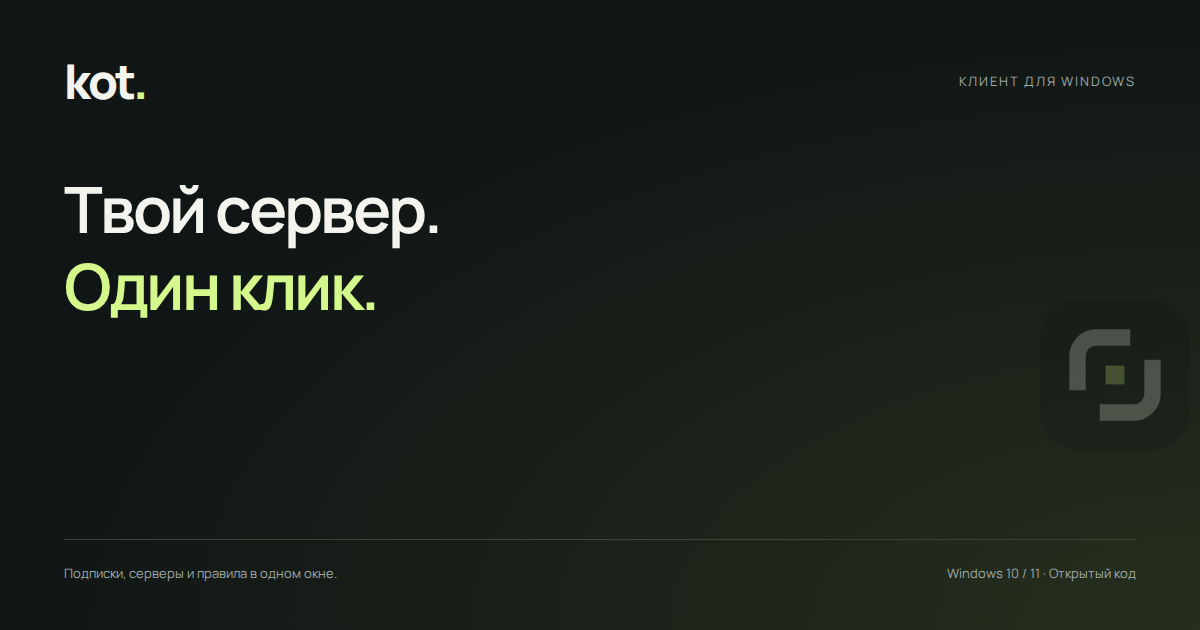
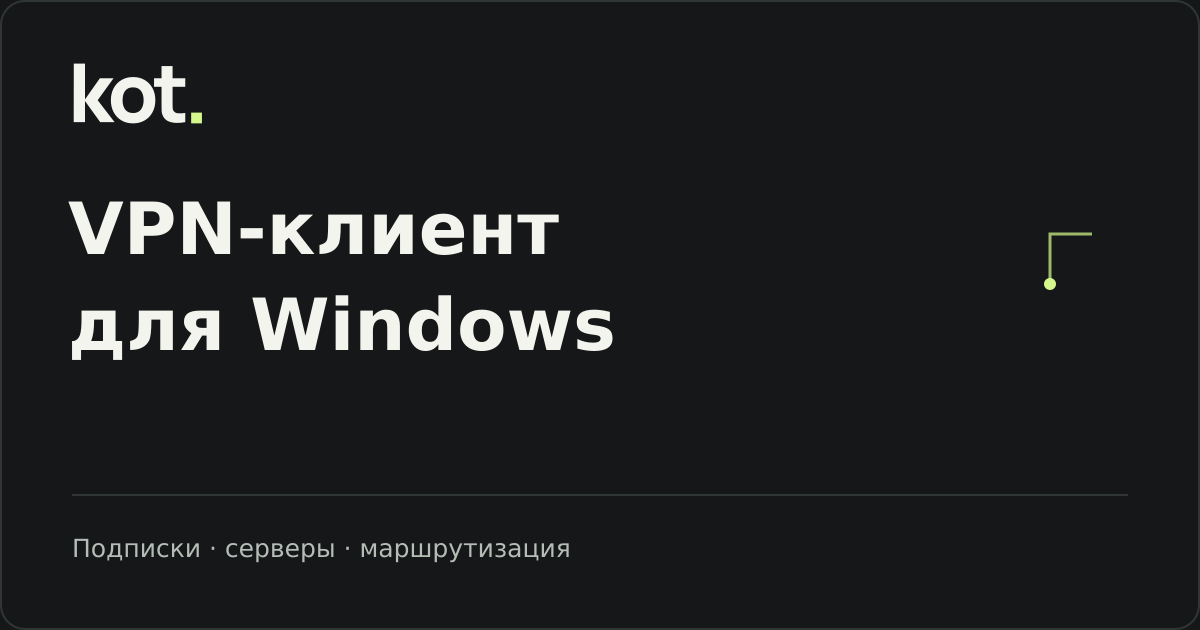
Edit public copy for clarity

diff --git a/site/index.html b/site/index.html
@@ -1,17 +1,17 @@
 <!doctype html>
 <html lang="ru"><head><meta charset="utf-8"><meta name="viewport" content="width=device-width, initial-scale=1"><meta name="theme-color" content="#101213"><meta name="color-scheme" content="dark">
-  <meta name="description" content="Клиент для Windows. Твои подписки, серверы и правила маршрутизации в одном окне.">
-  <meta property="og:title" content="kot. / Твой сервер. Один клик.">
-  <meta property="og:description" content="Клиент для Windows. Твои подписки, серверы и правила маршрутизации в одном окне.">
+  <meta name="description" content="Клиент для Windows: подписки, серверы и правила маршрутизации в одном окне.">
+  <meta property="og:title" content="kot. — VPN-клиент для Windows">
+  <meta property="og:description" content="Клиент для Windows: подписки, серверы и правила маршрутизации в одном окне.">
   <meta property="og:type" content="website">
   <meta property="og:locale" content="ru_RU">
   <meta property="og:url" content="https://prodkot.github.io/kot/">
   <meta property="og:image" content="https://prodkot.github.io/kot/assets/social.png">
   <meta property="og:image:width" content="1200">
   <meta property="og:image:height" content="630">
-  <meta property="og:image:alt" content="kot. Твой сервер. Один клик. Клиент для Windows.">
+  <meta property="og:image:alt" content="kot. — VPN-клиент для Windows: подписки, серверы и маршрутизация.">
   <meta name="twitter:card" content="summary_large_image">
-  <title>kot. / Твой сервер. Один клик.</title>
+  <title>kot. — VPN-клиент для Windows</title>
   <link rel="canonical" href="https://prodkot.github.io/kot/">
 
 <link rel="icon" href="assets/kot-dark.svg" type="image/svg+xml"><link rel="preload" href="assets/fonts/Manrope.ttf" as="font" type="font/ttf" crossorigin>
@@ -33,14 +33,14 @@
     <div class="vw-picture-wrap" data-swipe-gallery><button type="button" class="screen-button vw-picture" data-zoom aria-label="Увеличить выбранный экран"><img src="assets/screens/home.png" width="1440" height="960" alt="Подключение kot. 0.8.0: кнопка подключения, сервер и выбор режима" data-explorer-image fetchpriority="high"><span class="zoom-hint" aria-hidden="true">+</span></button></div>
     <div class="vw-notes"><p class="vw-counter"><span data-explorer-number>01</span><span>/ 05</span></p><div class="vw-note-copy" data-explorer-text><h2 data-explorer-title>Подключение</h2><p data-explorer-copy>Выбираешь сервер и подключаешься<span class="text-dot">.</span> Здесь же переключаются TUN и системный прокси<span class="text-dot">.</span></p><ul data-explorer-facts><li>Два режима подключения</li><li>Скорость и время сеанса</li></ul></div><button type="button" class="vw-try" data-open-demo data-demo-page="home" data-explorer-demo>Открыть демо <span aria-hidden="true">↗</span></button></div>
   </div>
-<div class="vw-controls"><span class="sr-only" aria-live="polite" data-explorer-status>Экран 1 из 5</span><div class="vw-arrows" role="group" aria-label="Переключение экранов"><button type="button" data-explore-prev aria-label="Предыдущий экран"><svg viewBox="0 0 24 24" aria-hidden="true"><path d="m14 6-6 6 6 6"/></svg></button><button type="button" data-explore-next aria-label="Следующий экран"><svg viewBox="0 0 24 24" aria-hidden="true"><path d="m10 6 6 6-6 6"/></svg></button></div></div>
+<div class="vw-controls"><p class="vw-viewer-note">Снимки интерфейса 0.8.0</p><span class="sr-only" aria-live="polite" data-explorer-status>Экран 1 из 5</span><div class="vw-arrows" role="group" aria-label="Переключение экранов"><button type="button" data-explore-prev aria-label="Предыдущий экран"><svg viewBox="0 0 24 24" aria-hidden="true"><path d="m14 6-6 6 6 6"/></svg></button><button type="button" data-explore-next aria-label="Следующий экран"><svg viewBox="0 0 24 24" aria-hidden="true"><path d="m10 6 6 6-6 6"/></svg></button></div></div>
 </section>
 <span id="start" aria-hidden="true"></span>
-<section class="vw-subscription vw-wrap reveal" aria-labelledby="vw-subscription-title"><div class="vw-subscription-main"><h2 id="vw-subscription-title">Добавь свою<br>подписку<span class="text-dot">.</span></h2><div><p>В «Серверах» можно вставить ссылку на подписку или добавить сервер вручную<span class="text-dot">.</span> Там же поиск, задержка и избранное<span class="text-dot">.</span></p><button type="button" data-open-demo data-demo-page="servers">Открыть серверы в демо <span aria-hidden="true">↗</span></button></div></div><div class="vw-protocols"><span>Поддерживаются</span><p>VLESS <i><span class="text-dot text-dot-middle">·</span></i> VMess <i><span class="text-dot text-dot-middle">·</span></i> Trojan <i><span class="text-dot text-dot-middle">·</span></i> Shadowsocks <i><span class="text-dot text-dot-middle">·</span></i> Hysteria2</p><a href="https://github.com/prodkot/kot/blob/main/docs/GUIDE.md">Руководство ↗</a></div></section>
+<section class="vw-subscription vw-wrap reveal" aria-labelledby="vw-subscription-title"><div class="vw-subscription-main"><h2 id="vw-subscription-title">Подписки<br>и серверы<span class="text-dot">.</span></h2><div><p>В «Серверах» можно вставить ссылку на подписку или отдельный сервер<span class="text-dot">.</span> Там же поиск, задержка и избранное<span class="text-dot">.</span></p><button type="button" data-open-demo data-demo-page="servers">Открыть серверы в демо <span aria-hidden="true">↗</span></button></div></div><div class="vw-protocols"><span>Поддерживаются</span><p>VLESS <i><span class="text-dot text-dot-middle">·</span></i> VMess <i><span class="text-dot text-dot-middle">·</span></i> Trojan <i><span class="text-dot text-dot-middle">·</span></i> Shadowsocks <i><span class="text-dot text-dot-middle">·</span></i> Hysteria2</p><a href="https://github.com/prodkot/kot/blob/main/docs/GUIDE.md">Руководство ↗</a></div></section>
 <span id="download" aria-hidden="true"></span>
 <section class="vw-install vw-wrap reveal" id="install" aria-labelledby="vw-install-title"><div class="vw-install-intro"><h2 id="vw-install-title" class="install-title">
   <span class="install-title-default">Установить<br>kot<span class="install-dot text-dot">.</span></span>
-  <span class="install-title-secret" aria-hidden="true"><span class="install-meow">Мяу,</span><span class="install-promise">и интернет<br>у тебя в руках<span class="install-dot text-dot">.</span></span></span>
+  <span class="install-title-secret" aria-hidden="true"><span class="install-meow">Мяу<span class="install-dot text-dot">.</span></span></span>
 </h2><span class="sr-only" role="status" data-cat-status></span><a class="vw-release kot-download" data-release-download href="https://github.com/prodkot/kot/releases/latest"><span class="download-label">Скачать для Windows</span><span class="download-art" aria-hidden="true"><svg class="download-arrow" viewBox="0 0 24 24"><path d="M12 3v12m-5-5 5 5 5-5M4 16v4h16v-4"/></svg><svg class="download-paw" viewBox="0 0 24 24"><path d="M7.2 12.7C5.7 14.6 4.4 16.3 5.4 18.2c.8 1.4 2.3 1.5 3.9.9a7.3 7.3 0 0 1 5.4 0c1.6.6 3.1.5 3.9-.9 1-1.9-.3-3.6-1.8-5.5-2.3-2.8-7.3-2.8-9.6 0Z"/><ellipse cx="4.6" cy="9" rx="2" ry="2.6" transform="rotate(-24 4.6 9)"/><ellipse cx="9.2" cy="5.7" rx="2" ry="2.7" transform="rotate(-9 9.2 5.7)"/><ellipse cx="14.8" cy="5.7" rx="2" ry="2.7" transform="rotate(9 14.8 5.7)"/><ellipse cx="19.4" cy="9" rx="2" ry="2.6" transform="rotate(24 19.4 9)"/></svg></span></a></div><div class="vw-kot-art">
   <svg class="kot-portrait kot-loaf" viewBox="0 0 600 360" fill="none" aria-hidden="true" focusable="false">
     <path class="kot-thread" d="M154 284C128 326 132 318 102 310"/>
@@ -59,7 +59,7 @@
   <span class="sr-only" id="kot-play-hint">Нажми на кота, чтобы погладить. С клавиатуры используй Enter или пробел. Рядом можно покатать клубок.</span>
 </div></section>
 </main><noscript><p class="demo-nojs vw-wrap">Для переключения экранов и интерактивного демо включи JavaScript<span class="text-dot">.</span> <a href="demo/index.html">Открыть демо отдельно</a></p></noscript>
-<footer class="vw-footer vw-wrap"><a class="vw-brand" href="#main">kot<span class="text-dot">.</span></a><p>сделано лапкам</p><a href="https://github.com/prodkot/kot/blob/main/LICENSE.txt">Лицензия MIT ↗</a></footer>
+<footer class="vw-footer vw-wrap"><a class="vw-brand" href="#main">kot<span class="text-dot">.</span></a><a href="https://github.com/prodkot/kot/blob/main/LICENSE.txt">Лицензия MIT ↗</a></footer>
 <div class="demo-anchor" id="demo-anchor"><dialog class="demo-window" id="app-demo" aria-labelledby="demo-title" data-inline="false">
 <div class="demo-toolbar"><strong id="demo-title">kot<span class="text-dot">.</span> / Демо</strong><div><button type="button" data-reset-demo>Сбросить</button><button type="button" data-close-demo aria-label="Закрыть демо">Закрыть ×</button></div></div>
 <div class="demo-view"><div class="demo-loading" data-demo-loading hidden><span class="demo-spinner" aria-hidden="true"></span><p data-demo-message role="status">Открываем демо…</p><button type="button" data-retry-demo hidden>Попробовать ещё раз</button></div><iframe id="client-demo" data-src="demo/index.html" title="Интерактивное демо kot." sandbox="allow-scripts allow-forms" referrerpolicy="no-referrer" aria-describedby="demo-note"></iframe></div>

diff --git a/site/styles/refinement.css b/site/styles/refinement.css
@@ -3,6 +3,7 @@
 .vw-heading h1{max-width:100%;text-wrap:balance}
 .vw-filmstrip>.tab-track{margin:0}
 .vw-controls{display:flex;align-items:center;justify-content:flex-end;gap:12px;margin-top:12px;min-height:44px}
+.vw-controls .vw-viewer-note{margin-right:auto;color:#a7b1a3;font-size:12px}
 .vw-arrows{display:flex;gap:2px}
 .vw-arrows button{width:42px;height:42px;padding:0;display:grid;place-items:center;border:0;border-radius:8px;color:#bdc7bb;background:transparent}
 .vw-arrows button svg{width:19px;height:19px;stroke-width:1.8}

diff --git a/site/scripts/cat-play.js b/site/scripts/cat-play.js
@@ -91,7 +91,7 @@
     section.classList.add('is-purring');
     original.setAttribute('aria-hidden', 'true');
     secret.removeAttribute('aria-hidden');
-    if (!wasPurring) status.textContent = 'Мяу, и интернет у тебя в руках.';
+    if (!wasPurring) status.textContent = 'Мяу.';
     clearTimeout(restoreTimer);
     restoreTimer = setTimeout(restore, 5000);
   }

diff --git a/site/viewer_browser_check.py b/site/viewer_browser_check.py
@@ -74,7 +74,7 @@ def check():
                         page.locator('.kot-pet').press('Enter')
                         expect(page.locator('#install')).to_have_class('vw-install vw-wrap reveal is-purring')
                         expect(page.locator('.install-title-secret')).not_to_have_attribute('aria-hidden', 'true')
-                        expect(page.locator('[data-cat-status]')).to_have_text('Мяу, и интернет у тебя в руках.')
+                        expect(page.locator('[data-cat-status]')).to_have_text('Мяу.')
                         after = page.locator('.vw-install .kot-download').bounding_box()
                         assert abs(before['y'] - after['y']) < 1, (width, before, after)
                         page.clock.fast_forward(5100)

diff --git a/site/check.py b/site/check.py
@@ -24,7 +24,11 @@ class SiteTests(unittest.TestCase):
         self.assertIn(description, readme)
         self.assertNotIn('noindex', markup)
         self.assertIn('<link rel="canonical" href="https://prodkot.github.io/kot/">', markup)
-        self.assertIn('Твой сервер. Один клик.', readme)
+        title = search(r"<title>([^<]+)</title>", markup).group(1)
+        social_title = search(r'<meta property="og:title" content="([^"]+)">', markup).group(1)
+        self.assertEqual(title, social_title)
+        self.assertIn("kot.", title)
+        self.assertIn("Windows", title)
 
     def test_build_cannot_overwrite_sources(self):
         for destination in (ROOT, ROOT / "demo", ROOT / "assets", ROOT.parent,

diff --git a/docs/STATISTICS.md b/docs/STATISTICS.md
@@ -1,12 +1,12 @@
 # Время подключения и статистика
 
-> Экспериментальная 0.8.0 использует Xray Metrics. Общие итоги, таймеры и история сохраняются. Xray не отдаёт прежний список соединений, поэтому новые данные по приложениям и маршрутам считаются неопределёнными. Ниже описание распределения прежних версий относится к сохранённой истории, а не к возможностям нового ядра.
+> kot использует Xray Metrics. Общие итоги, таймеры и история сохраняются. Xray не отдаёт прежний список соединений, поэтому новые данные по приложениям и маршрутам считаются неопределёнными. Ниже описание распределения прежних версий относится к сохранённой истории, а не к возможностям нового ядра.
 
 Начиная с версии 0.6.0 ниже общих итогов показываются приложения и маршруты «Через VPN», «Напрямую» и «Маршрут не определён», график скорости последних трёх минут текущего сеанса, дневные итоги и график трафика за выбранный календарный период. Для «Всё время» график показывает последние 30 дней, а числовые итоги охватывают всю сохранённую историю.
 
 Подробные счётчики сохраняются отдельно в `traffic-details.json`. Общие показатели из `traffic-history.json` сохраняются при обновлении; прошлый трафик нельзя задним числом распределить по приложениям. Дата начала подробного учёта показана на странице. Скоростной график хранится только для текущего процесса и очищается при новом подключении.
 
-Ядро опрашивается раз в две секунды. Соединения, успевшие закрыться между опросами, и приложения без имени учитываются как «Не определено». Сумма подробных счётчиков сверяется с общим трафиком ядра. При позднем появлении соединения его доля ограничивается трафиком соответствующего интервала, поэтому распределение по приложениям следует считать оценкой. В режиме системного прокси приложения определяются не для всех соединений. Учитывается только трафик, прошедший через ядро, включая его прямые маршруты.
+В прежних версиях ядро опрашивалось раз в две секунды. Соединения, успевшие закрыться между опросами, и приложения без имени учитывались как «Не определено». Сумма подробных счётчиков сверялась с общим трафиком ядра. При позднем появлении соединения его доля ограничивалась трафиком соответствующего интервала, поэтому распределение по приложениям следует считать оценкой. В режиме системного прокси приложения определялись не для всех соединений. Учитывался только трафик, прошедший через ядро, включая его прямые маршруты.
 
 Открой **Настройки → Статистика**: строка находится в основной карточке сразу под **Закрывать в трей**. Раздел также доступен в меню значка приложения в трее. Здесь показан таймер текущего подключения. Он запускается после успешной проверки соединения и останавливается при отключении. Попытки соединения и ожидание сети не входят во время подключения. Каждый успешный запуск нового соединения, включая автоматическое переподключение, начинает новый сеанс. Смена выбранного узла внутри работающего ядра сама по себе не начинает новый сеанс.
 

diff --git a/docs/ROUTING.md b/docs/ROUTING.md
@@ -8,7 +8,7 @@
 
 ## Правила провайдера из подписки
 
-Обнови подписку в kot. 0.7.3 или новее. Если провайдер передаёт клиентские правила в `routing` / `autorouting`, они сохраняются с серверами и применяются автоматически. В окне маршрутизации выбран пункт **Правила подписки**; создавать или импортировать отдельный профиль kot не требуется.
+Обнови подписку в kot. 0.7.3 или новее. Если провайдер передаёт клиентские правила в `routing` / `autorouting`, они сохраняются с серверами и применяются при подключении. В окне маршрутизации выбран пункт **Правила подписки**; создавать или импортировать отдельный профиль kot не требуется.
 
 Поддерживаются заголовки HTTP, строки метаданных внутри обычной или base64-подписки, ссылки вида `scheme://routing/onadd/{base64}`, `routing/add`, `autorouting/onadd/https://...` и HTTPS-источники JSON. Приоритет: заголовок `autorouting`, строка `autorouting`, заголовок `routing`, строка `routing`. Значение `off` отключает правила для обычных серверов. Полные JSON сохраняют собственные правила. Удалённые правила проверяются при каждом обновлении подписки, в том числе фоновом; отдельного таймера autorouting нет. HWID не передаётся источнику правил.
 
@@ -16,7 +16,7 @@
 
 Подписка также может содержать полный клиентский Xray JSON или массив конфигураций с `inbounds` и `outbounds`. Импортируй его в окне добавления подписки или через **Из файла**. Сохраняются DNS, фильтры `domains` / `expectIPs`, маршрутизация, балансировщики и Observatory. Входящие порты заменяются локальными входами клиента; Metrics защищён авторизацией; серверные inbound, внешнее управление, локальные файлы и отключённая проверка TLS не принимаются. Адреса транспортных серверов получают отдельный прямой DNS bootstrap, чтобы не зависеть от ещё не установленного VPN.
 
-В экспериментальной 0.8.0 всё соединение, TUN, DNS и статистика работают в официальном Xray. При смене сервера включаются правила его подписки. Проверка доступности проходит через прокси, независимо от прямых доменов. Полные конфиги проверяются командой Xray до сохранения. Ошибка загрузки или проверки сохраняет предыдущую подписку. Изменение правил при прежнем списке серверов вызывает переподключение.
+За соединение, TUN, DNS и статистику отвечает Xray. При смене сервера включаются правила его подписки. Проверка доступности проходит через прокси, независимо от прямых доменов. Полные конфиги проверяются командой Xray до сохранения. Ошибка загрузки или проверки сохраняет предыдущую подписку. При обновлении активной подписки текущее подключение продолжается; обновлённые правила применяются при следующем подключении.
 
 В Авто участвуют только обычные узлы без полного конфига и правил провайдера. Полные конфигурации выбираются вручную, даже если добавлены в избранное или имеют одинаковые правила. Если избранное состоит только из таких конфигураций, Auto объясняет отсутствие кандидатов. При отказе всех реальных HTTP-проб через VPN произвольный сервер не выбирается. Смена успешно проверенного узла вызывает переподключение.
 

diff --git a/docs/SECURITY.md b/docs/SECURITY.md
@@ -8,7 +8,7 @@
 
 Мини-плеер загружает список только из API папки `prodkot/kot`, ветка `music`, а аудио только из соответствующей папки raw.githubusercontent.com. Токены, профиль и HWID туда не отправляются. Отдельная библиотека не обновляет код приложения. В демо сайта внешняя сеть, включая плеер, заблокирована.
 
-Kill switch использует постоянные фильтры Windows Filtering Platform. Падение приложения не удаляет фильтры. Добавление и замена проходят одной транзакцией. Блокируются исходящие и входящие прямые соединения для IPv4 и IPv6. В режиме TUN разрешён интерфейс kot-tun; в режиме системного прокси разрешается только ядро и перечисленные ниже исключения. Разрешены ядро Xray, loopback и DHCP Windows. Остальные правила Windows Firewall не меняются. Защита не является загрузочным драйвером: ранняя загрузка Windows до службы фильтрации не покрывается. Прямые маршруты внутри ядра остаются прямыми, это не режим принудительного проксирования всех запросов ядра.
+Kill switch использует постоянные фильтры Windows Filtering Platform. Падение приложения не удаляет фильтры. Добавление и замена проходят одной транзакцией. Блокируются исходящие и входящие прямые соединения для IPv4 и IPv6. В режиме системного прокси разрешены только ядро Xray, loopback и DHCP Windows; в режиме TUN дополнительно разрешён интерфейс kot-tun. Остальные правила Windows Firewall не меняются. Защита не является загрузочным драйвером: ранняя загрузка Windows до службы фильтрации не покрывается. Прямые маршруты внутри ядра остаются прямыми, это не режим принудительного проксирования всех запросов ядра.
 
 ## Что ещё требует работы
 
@@ -16,6 +16,6 @@ Kill switch использует постоянные фильтры Windows Fil
 - Полное поведение на реальном Windows-компьютере при смене сети, сне и аварии питания требует ручной проверки. Нативные тесты проверяют реальные WFP-фильтры в изолированной области одного тестового процесса, а не обещают отсутствие любых утечек в любой сети.
 - Конфигурации Xray передаются через stdin без временных файлов с ключами. DPAPI не защищает от вредоносной программы, уже работающей от того же пользователя.
 - Логи могут содержать адреса и личные сведения. Не публикуй их без просмотра.
-- Экспериментальная 0.8.0 собирает закреплённый официальный Xray из текущих исходников. Новая реализация TUN ещё требует длительных испытаний на разных Windows-компьютерах. Состав Go-модулей и лицензий приведён в `licenses/Xray-Go-NOTICES.txt`.
+- kot использует закреплённую версию официального Xray, собранную из исходников. Реализация TUN требует длительных испытаний на разных Windows-компьютерах. Состав Go-модулей и лицензий приведён в `licenses/Xray-Go-NOTICES.txt`.
 
 Секреты издателя не входят в репозиторий или Setup. GitHub Actions закреплены по SHA; ключ подписи доступен только заданию выпуска. Проверка истории Gitleaks выполняется при аудите репозитория; её результат относится к проверенным коммитам и не заменяет проверку следующих изменений. Проверки этой версии описаны в [BUILD.md](BUILD.md).

diff --git a/docs/GUIDE.md b/docs/GUIDE.md
@@ -4,7 +4,7 @@
 
 В **Серверах** можно искать, добавлять в избранное и проверять пинг. **Авто** выбирает быстрый доступный сервер из избранного, а если оно пустое, из всего списка.
 
-В **Логах** видны сообщения приложения. Экспериментальная версия 0.8.0 получает от Xray общий трафик без списка отдельных соединений. Кнопка копирования собирает полный диагностический лог. Перед публикацией проверь его: там могут остаться адреса сайтов и другие личные сведения.
+В **Логах** видны сообщения приложения. Xray предоставляет общий трафик без списка отдельных соединений. Кнопка копирования собирает полный диагностический лог. Перед публикацией проверь его: там могут остаться адреса сайтов и другие личные сведения.
 
 ## Режим подключения
 
@@ -49,7 +49,7 @@
 
 Версия 0.4.2 и более ранние искали ZIP. Для перехода на 0.5.x нужно один раз запустить новый Setup. Следующие обновления уже работают через Setup.
 
-Резервная копия доступна в **Настройки → Дополнительно**. Файл содержит данные подписок, храни его как пароль. HWID можно посмотреть и скопировать в **Настройки → HWID**.
+Резервная копия доступна в **Настройки → Дополнительно**. Файл содержит данные подписок, храни его как пароль. HWID можно посмотреть и скопировать в **Настройки → Дополнительно → HWID**.
 
 ## Статистика подключения
 
@@ -57,7 +57,7 @@
 
 ## Восстановление и работа в фоне
 
-Для сценария «подключился и забыл» включи **Запуск с Windows**, **Автоподключение**, **Закрывать в трей** и оставь включённым **Восстанавливать соединение** в автоматизации. После успешного подключения kot продолжает попытки восстановления при сетевых сбоях. Ручное отключение отменяет эти попытки. Если сервер ни разу не подключился, после трёх неудач показывается ошибка; проверь сервер и подписку.
+Для автоматического подключения и работы в фоне включи **Запуск с Windows**, **Автоподключение**, **Закрывать в трей** и оставь включённым **Восстанавливать соединение** в автоматизации. После успешного подключения kot продолжает попытки восстановления при сетевых сбоях. Ручное отключение отменяет эти попытки. Если сервер ни разу не подключился, после трёх неудач показывается ошибка; проверь сервер и подписку.
 
 При падении или зависании интерфейса соединение, фоновые задачи и меню трея продолжают работать. kot пересоздаёт окно и возвращает последнюю страницу. Если несколько попыток подряд не помогли, появляется кнопка **Повторить**. В меню трея можно открыть окно, отключить VPN или полностью выйти.
 

diff --git a/site/README.md b/site/README.md
@@ -18,8 +18,8 @@ python3 site/viewer_browser_check.py
 
 Снимки интерфейса 0.8.0 находятся в `assets/screens/`. Галерея переключается сама через 5,2 секунды. После ручного выбора, свайпа или стрелок она ждёт 5 секунд от последнего действия. Открытое окно демо или снимка, скрытая вкладка и удержание указателя останавливают показ. При `prefers-reduced-motion` автоматическое переключение и декоративное движение отключены.
 
-Кота можно погладить кликом, касанием или клавишей Enter/Space. Значок нажатия подсказывает действие без подписи; движение указателя само по себе поглаживание не запускает. На 5 секунд появляется «Мяу, и интернет у тебя в руках.», повторное действие продлевает показ. Клубок реагирует на указатель и касание, сохраняя вертикальную прокрутку. Точки рядом с белым текстом зелёные и квадратные, рядом с зелёным текстом белые и квадратные. Версии, адреса и исходные снимки не преобразуются.
+Кота можно погладить кликом, касанием или клавишей Enter/Space. Значок нажатия подсказывает действие без подписи; движение указателя само по себе поглаживание не запускает. На 5 секунд появляется «Мяу.», повторное действие продлевает показ. Клубок реагирует на указатель и касание, сохраняя вертикальную прокрутку. Точки рядом с белым текстом зелёные и квадратные, рядом с зелёным текстом белые и квадратные. Версии, адреса и исходные снимки не преобразуются.
 
-Шрифты и их лицензии включены в `assets/fonts/`. Проверки покрывают относительные пути GitHub Pages, установщик, ресурсы, клавиатуру, таймеры, мобильные размеры, кота, изоляцию демо, уменьшенное движение и работу без JavaScript.
+Карточка для ссылок хранится в `assets/social.png`; её исходный макет — `assets/social.svg`. Шрифты и их лицензии включены в `assets/fonts/`. Проверки покрывают относительные пути GitHub Pages, установщик, ресурсы, клавиатуру, таймеры, мобильные размеры, кота, изоляцию демо, уменьшенное движение и работу без JavaScript.
 
 GitHub Pages публикует `main` после изменений сайта или стабильного релиза. Экспериментальные релизы не запускают публикацию.

diff --git a/docs/UI-ARCHITECTURE.md b/docs/UI-ARCHITECTURE.md
@@ -24,7 +24,7 @@ Factories receive dependencies once from `app.js`: DOM lookup, `getModel`, `getP
 
 `native-bridge.js` owns request IDs, pending promises, deadlines and host message delivery. It knows no DOM or page implementation. `presentation.js` handles labels, country presentation and byte formatting without sending requests. `journal.js` owns pause/follow state and the paused snapshot. `routing.js` owns form drafts and renders native routing projections; actual matching/normalization remains in Core.
 
-`app.js` still owns startup, navigation, subscriptions/server lists, connection projection and update presentation. These are explicitly deferred extraction candidates, not a second architecture hidden behind new wrappers. Existing `about.js`, `services.js`, `client-tools.js` and `dialog-ui.js` retain their responsibilities.
+`app.js` owns startup, navigation, subscriptions/server lists, connection projection and update presentation. These remain candidates for extraction. Existing `about.js`, `services.js`, `client-tools.js` and `dialog-ui.js` retain their responsibilities.
 
 Both VPN buttons render the same host connection snapshot and share the `toggle` request. The sidebar shows progress during connection and disconnection. The home button can still cancel a connection attempt. The sidebar tooltip follows the selected server, including the resolved server in Auto mode.
 
@@ -47,7 +47,7 @@ The extraction preserves selector specificity and cascade order. Late P5.1 overr
 | Motion | CSS fast/control/normal/surface durations; JS enter/exit/backdrop/help durations; `--ease` |
 | Shadow | `--shadow-toast`; unique component shadows remain local |
 
-The compact button radius is 8px; input/control radius is 9px. Keeping separate tokens preserves the actual design instead of forcing unrelated components to match. Change `--control-height` for standard button height, `--field-height` for fields, and the appropriate radius token for that component family. `Tests/architecture_ui.py` overrides these values and verifies multiple real component selectors in both themes.
+The compact button radius is 8px; input/control radius is 9px. Separate tokens let each component family keep its own radius. Change `--control-height` for standard button height, `--field-height` for fields, and the appropriate radius token for that component family. `Tests/architecture_ui.py` overrides these values and verifies multiple real component selectors in both themes.
 
 JS animation duration tokens (`--motion-enter`, `--motion-exit`, `--motion-backdrop`, `--motion-help`) use **milliseconds** because Web Animations accepts numeric milliseconds. Keep their `ms` unit when editing. CSS transition tokens can use CSS time units. Startup artwork and unique page transitions retain local choreography; not every animation is a shared control token.
 
